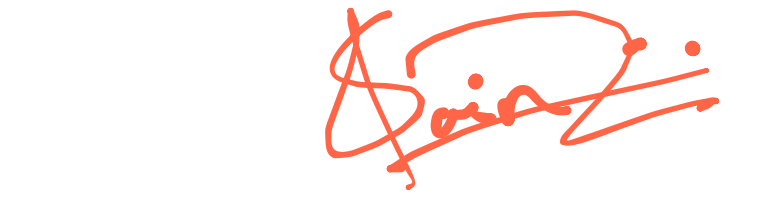
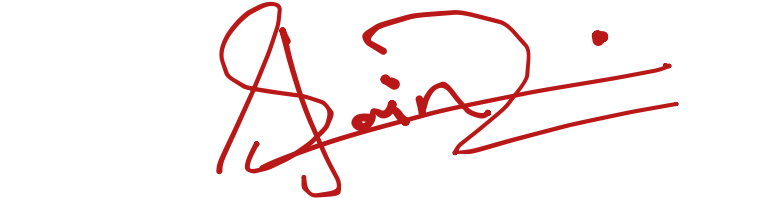
Update: Homepage

Changed region(s): [[0.2802, 0.0, 0.9339, 1.0], [0.8716, 0.2121, 0.9339, 0.303], [0.6848, 0.2424, 0.716, 0.3333]]

diff --git a/src/components/extra/TagCloud.tsx b/src/components/extra/TagCloud.tsx
@@ -1,46 +1,23 @@
-import React, { useEffect } from "react";
+import React from "react";
 import TagCloud, { TagCloudOptions } from "@frank-mayer/react-tag-cloud";
 
 export const SkillSphere = () => {
-    // const container = '.tagcloud';
-    // const texts = [
-    //     'Python', 'JS/TS',
-    //     'Html-CSS', 'Java', 'SAP',
-    //     'Firebase', 'Vercel', 'Next',
-    //     'C', 'C++', 'git', 'SQL', 'Spring', 'Node.js', 'R'
-    // ];
-    // const options: TagCloudOptions = {
-    //     radius: 400,
-    //     maxSpeed: 'fast',
-    //     initSpeed: 'normal',
-    //     keep: true,
-    // };
-    // useEffect(() => {
-    //     return () => {
-    //         TagCloud(container, texts, options);
-    //     };
-    // }, []);
     return (
-        <TagCloud
-        options={(w: Window & typeof globalThis): TagCloudOptions => ({
-            radius: Math.min(500, w.innerWidth, w.innerHeight) / 2,
-            maxSpeed: "fast",
-        })}
-        onClick={(tag: string, ev: MouseEvent) => alert(tag)}
-        onClickOptions={{ passive: true }}
-    >
-        {[
-            "VSCode",
-            "TypeScript",
-            "React",
-            "Preact",
-            "Parcel",
-            "Jest",
-            "Next",
-            "ESLint",
-            "Framer Motion",
-            "Three.js",
-        ]}
-    </TagCloud>
+        <div className="flex justify-center align-center">
+            <TagCloud className="tagcloud text-5xl font-bold text-gray-600 shadow-2xl drop-shadow-2xl"
+                options={(w: Window & typeof globalThis): TagCloudOptions => ({
+                    radius: Math.min(800, w.innerWidth, w.innerHeight) / 2,
+                    maxSpeed: "fast",
+                })}
+                onClickOptions={{ passive: true }}
+            >
+                {[
+                    'Python', 'JS/TS',
+                    'Html-CSS', 'Java', 'SAP',
+                    'Firebase', 'Vercel', 'Next',
+                    'C', 'C++', 'git', 'SQL', 'Spring', 'Node.js', 'R'
+                ]}
+            </TagCloud>
+        </div>
     );
 }

diff --git a/src/components/home/About.tsx b/src/components/home/About.tsx
@@ -3,10 +3,10 @@ import { Parallax } from 'react-scroll-parallax';
 
 const About: React.FC = () => {
     return (
-        <div id="about" className="h-dvh">
-            <div className="flex justify-center">
+        <div id="about" className="h-dvh flex flex-col justify-center mt-20">
+            <div className="flex justify-center" data-aos="flip-up" data-aos-duration="1000">
                 <h1 className="text-6xl font-bold pt-20 pl-20">About</h1>
-                <h1 className="text-6xl mt-20 animate-tiltshaking origin-[50%_80%]">👋</h1>
+                <h1 className="text-6xl mt-20 animate-tiltshaking origin-[80%_80%]">&nbsp;👋</h1>
             </div>
             <Parallax
                 translateY={['200px', '0px']}
@@ -14,13 +14,12 @@ const About: React.FC = () => {
                 // rotate={[180, 360]}
                 speed={-100}
                 easing={'easeOut'}
+                className=''
             >
-                <div className="flex-col justify-center text-7xl m-10 space-y-6 mb-60 text-center">
-                    <h1 data-aos="fade-up" data-aos-duration="800">Ambitious guy with a genuine passion for Software Development.</h1>
-                    <h1 data-aos="fade-up" data-aos-duration="900">I believe in Quality, Pace and Hardwork.</h1>
-                    <h1 data-aos="fade-up" data-aos-duration="1000">Frontend-Backend-Devops Development</h1>
-
-                    {/* <img src="/sj-logo.png" alt="logo" width={800} height={500} /> */}
+                <div className="flex flex-col justify-center text-6xl space-y-6 mb-30 text-center leading-snug text-gray-600 font-medium">
+                    <h1 data-aos="fade-up" data-aos-duration="800">Ambitious guy with a genuine passion in Software Development.</h1>
+                    <h1 data-aos="fade-up" data-aos-duration="900">I believe in Creativity, Quality, Pace and Hardwork.</h1>
+                    <h1 data-aos="fade-up" data-aos-duration="1000">Frontend-Backend Development</h1>
                 </div>
             </Parallax>
         </div>

diff --git a/src/components/home/Contact.tsx b/src/components/home/Contact.tsx
@@ -5,21 +5,18 @@ import Tilt from "react-parallax-tilt";
 
 const Contact: React.FC = () => {
     return (
-        <div id="footer" className="h-svh flex flex-col justify-around ">
-            <div>
+        <div id="footer" className="h-dvh flex flex-col justify-center items-center">
+                <Tilt className="flex justify-center scale-110 m-10"
+                    perspective={600}
+                    glareEnable={false}
+                    glareMaxOpacity={0.15}
+                    scale={1.02}
+                    gyroscope={false}>
+                    <img src="/signature1.png" alt="logo" width={700} height={800} className="p-10 bg-white text-white" />
+                </Tilt>
                 <div>
-                    <Tilt className="flex justify-center h-full w-full"
-                        perspective={1000}
-                        glareEnable={true}
-                        glareMaxOpacity={0.15}
-                        scale={1.02}
-                        gyroscope={true}>
-                        <img src="/profilepic.jpg" alt="logo" width={700} height={700} className="grayscale" />
-                    </Tilt>
-                </div>
-                <div>
-                    <div className="flex justify-center text-9xl font-bold m-6">
-                        Lets Work Together!
+                    <div className="flex justify-center text-7xl font-bold m-6">
+                        Let&apos;s Work Together!
                     </div>
                     {/* <Link className="flex justify-center text-4xl font-normal hover:text-orange-600 hover:cursor-none" href={"mailto:sjain3243@gmail.com"} >
                     sjain3243@gmail.com
@@ -27,7 +24,6 @@ const Contact: React.FC = () => {
                     <div className='flex justify-center text-4xl font-normal hover:text-orange-600 hover:cursor-none'>
                         <ScrambleText text="sjain3243@gmail.com" id="mailto:sjain3243@gmail.com" /></div>
                 </div>
-            </div>
 
         </div>
     );

diff --git a/src/components/card/WorkCard.tsx b/src/components/card/WorkCard.tsx
@@ -14,10 +14,10 @@ interface CardProps {
 
 const Card = ({ title, position, start, end, content, style, location, link }: CardProps) => {
     return (
-        <div className="relative card min-w-[700px] rounded-xl border bg-card shadow-xl z-20 font-semibold m-10 font-sans">
+        <div className="relative card min-w-[700px] rounded-xl border bg-card z-20 font-semibold m-12 mb-20 font-sans hover:shadow-[0px_0px_30px_10px_rgb(255,0,0)] transition-shadow delay-300 ease-in duration-300">
             {/* <CustomCursor text='cursor-pointer bg-white' /> */}
             <div className="flex flex-col space-y-2 p-6">
-                <a className={`flex justify-center card-title font-bold leading-none text-2xl text-orange-600 hover:text-white m-2 ${style}`} href={link}>{title}</a>
+                <a className={`flex justify-center card-title font-bold leading-none text-2xl text-orange-600 m-2 ${style}`} href={link}>{title}</a>
                 <h2 className="flex justify-center ">{position}</h2>
                 <h2 className="flex justify-center"> {start} - {end}&nbsp; {location}</h2>
                 <p className="card-content p-2 font-medium text-lg">{content}</p>

diff --git a/src/components/home/Footer.tsx b/src/components/home/Footer.tsx
@@ -4,11 +4,11 @@ import ScrambleText from "../cursor/ScrambleText";
 const Footer: React.FC = () => {
     return (
         <footer className="flex shrink-0">
-            <div className=" rounded-xl grid gap-x-8 grid-cols-4 backdrop-blur-md hover:cursor-pointer font-medium tracking-wide text-lg">
-                <ScrambleText text="LinkedIn" id="#about" />
-                <ScrambleText text="Github" id="#about" />
-                <ScrambleText text="Chess" id="#about" />
-                <ScrambleText text="Instagram" id="#about" />
+            <div className="p-2 rounded-xl grid gap-x-8 grid-cols-4 backdrop-blur-md hover:cursor-pointer font-medium tracking-wide text-lg">
+                <ScrambleText text="LinkedIn" id="https://www.linkedin.com/in/saiyam3243" />
+                <ScrambleText text="Chess.com" id="https://chess.com/play/sjain3243" />
+                <ScrambleText text="Instagram" id="https://www.instagram.com/saiyam3243/" />
+                <ScrambleText text="Github" id="https://github.com/saiyam3243/" />
             </div>
         </footer>
     )

diff --git a/src/components/home/Landing.tsx b/src/components/home/Landing.tsx
@@ -21,15 +21,12 @@ const LandingPage: React.FC = () => {
                             <div className="absolute inset-0 flex items-center justify-center">
                                 {/* <div className=" inset-0 bg-gradient-to-t from-gray-900 to-blue-900" /> */}
                                 {/* <h1 className="text-4xl">I am a&nbsp;</h1> */}
-                                <Typewriter toType={["Welcome to Saiyam Jain", "Software Developer", "Frontend Developer", "Student", "Cricketer", "Teacher"]} />
-                                {/* <video autoPlay loop muted className="object-cover w-full h-full">
-                      <source src="/temp.mp4" type="video/mp4" />
-                    </video> */}
+                                <Typewriter toType={["Saiyam Jain", "Munich", "Software Developer", "Frontend Developer"]} />
                             </div>
                         ),
                     },
                 ]}
-                className="aspect-[2/1] mb-40"
+                className="aspect-[2/1] mb-20"
             />
         </div>
     );

diff --git a/src/components/home/WorkExp.tsx b/src/components/home/WorkExp.tsx
@@ -35,13 +35,11 @@ const Works: React.FC = () => {
     }, []);
 
     return (
-        <div className="h-dvh flex flex-col justify-evenly">
-            <div className="h-20">
-                <div data-aos="flip-up" data-aos-duration="1000" className="flex justify-center">
+        <div className="h-dvh flex flex-col justify-evenly mt-20">
+                <div data-aos="flip-up" data-aos-duration="1000" className="flex justify-center h-20">
                     <h1 className="text-6xl font-bold pl-20">Works</h1>
-                    <h1 className="text-6xl animate-tiltshaking origin-[50%_80%]">👋</h1>
+                    <h1 className="text-6xl animate-bounce">&nbsp; 🛠</h1>
                 </div>
-            </div>
             <div id="works" className="section flex overflow-x-scroll" ref={horizontalScrollRef}>
                 {reversedWorkExpOne.map((item, index) => {
                     return <Card key={index} title={item[0]} position={item[1]} location={item[2]} start={item[3]} end={item[4]} content={item[5]} />

diff --git a/src/components/home/RotateStyle.tsx b/src/components/home/RotateStyle.tsx
@@ -23,7 +23,7 @@ const RotateStyle = () => {
                     <img src="/profilepic.jpg" alt="logo" width={700} height={700} className="grayscale" />
                 </Tilt>
             </div>
-            <div className="relative flex items-center text-[300px] font-bold text-gray-700 z-10 select-none" ref={parallax1.ref}>
+            <div className="relative flex items-center text-[300px] font-bold text-gray-600 z-10 select-none" ref={parallax1.ref}>
                 <h1 className="text-block pr-24 whitespace-nowrap animate-movewords tracking-tighter">Creative Developer </h1>
                 <h1 className="text-block pr-24 whitespace-nowrap animate-movewords tracking-tighter">Creative Developer </h1>
                 <h1 className="text-block pr-24 whitespace-nowrap animate-movewords tracking-tighter">Creative Developer </h1>

diff --git a/src/components/home/Skills.tsx b/src/components/home/Skills.tsx
@@ -7,7 +7,7 @@ const Skills : React.FC = () => {
             <div className="h-dvh">
                 <div data-aos="flip-up" data-aos-duration="1000" className="flex justify-center">
                     <h1 className="text-6xl font-bold pt-20 pl-20">Skills</h1>
-                    <h1 className="text-6xl mt-20 animate-tiltshaking origin-[50%_80%]">👋</h1>
+                    <h1 className="text-6xl mt-20 animate-tiltshaking origin-[70%_80%]">&nbsp; 🤹</h1>
                 </div>
                 <SkillSphere />
             </div>

diff --git a/src/pages/index.tsx b/src/pages/index.tsx
@@ -19,11 +19,8 @@ export default function Home() {
 
   return (
     <main
-      className={`min-h-screen bg-black p-12 text-white overflow-x-hidden overflow-y-hidden cursor-none ${inter.className}`}
+      className={`min-h-screen bg-[#191919] p-12 text-white overflow-x-hidden overflow-y-hidden cursor-none ${inter.className}`}
     >
-      <div className="scroll-bar">
-      <div className="scroll-state scrollState"></div>
-    </div>
       <Header />
       <LandingPage />
       <RotateStyle />

diff --git a/src/styles/globals.css b/src/styles/globals.css
@@ -49,11 +49,15 @@ body {
   background-color: #000000;
   border-radius: 100px;
 }
+*::-webkit-scrollbar-track-piece {
+  height: 100px;
+}
 
 *::-webkit-scrollbar-thumb {
   background-color: #d4aa70;
   border-radius: 100px;
   border: 6px solid rgba(0, 0, 0, 0.2);
+  height: 10px;
 
 }
 
